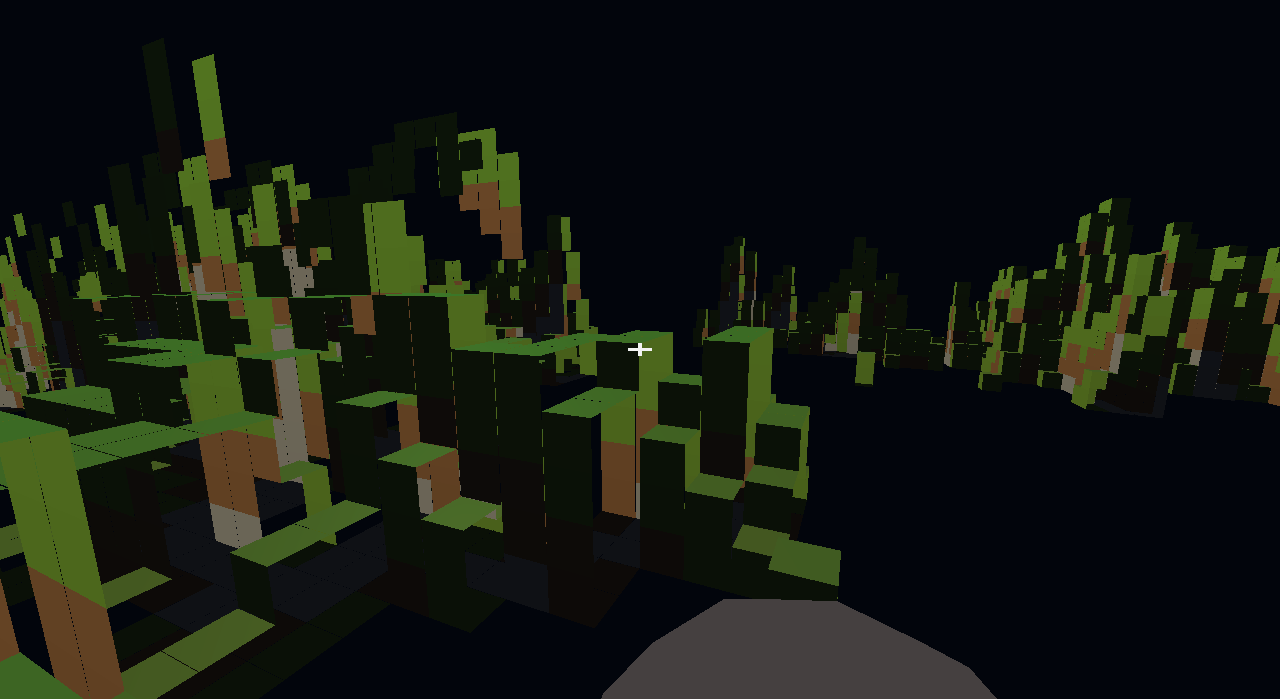
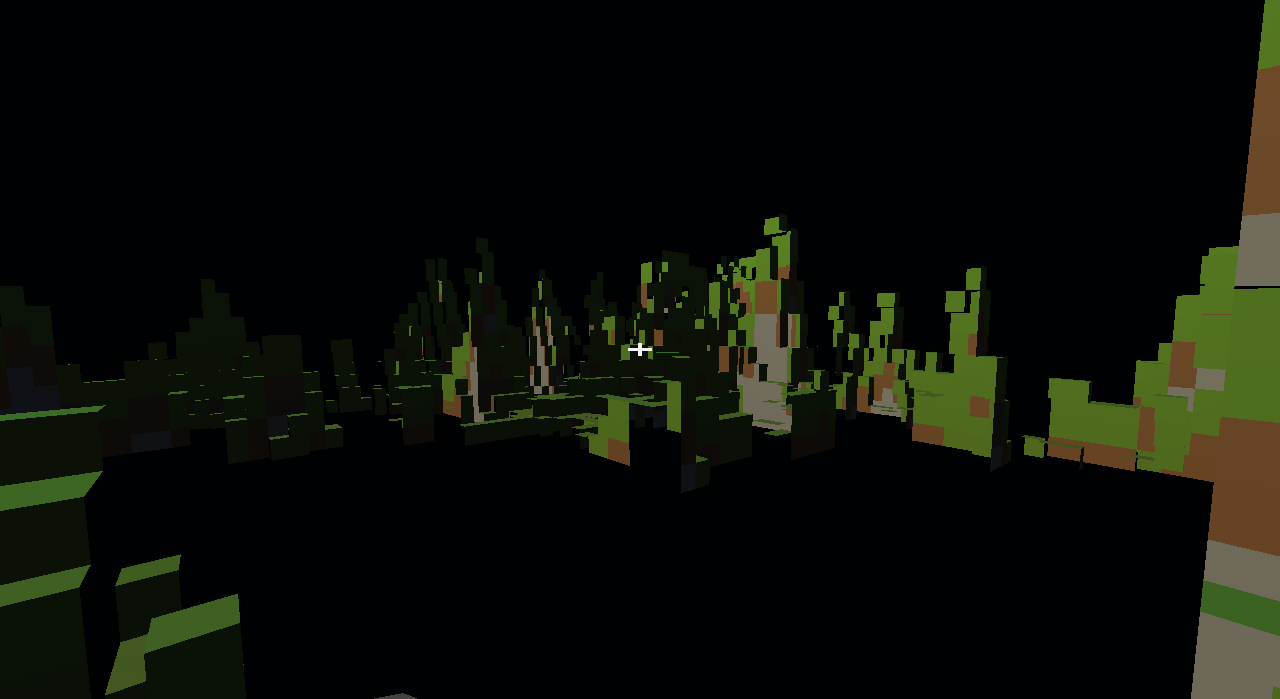
fix(terrain): Gemini 3.1 Pro — fix voxel face geometry, normals, culling, winding
4 bugs fixed in build_chunk_mesh (planet_blocks.cpp):

1. Face geometry: Replaced cartesian tangent offsets with exact
   spherical projection corners — eliminates seams between blocks.
   Uses face_uv_to_direction() for all 8 voxel frustum corners.

2. Face normals: Compute exact per-face geometric normal via
   cross(v1-v0, v2-v0) instead of proxy tangent vectors — enables
   proper per-block lighting on the sphere surface.

3. Face culling: Added cross-sector neighbor resolution via
   edge_pairing() when coordinates step out of current sector
   bounds — eliminates incorrect face emission at sector boundaries.

4. Winding order: Unified all 6 face directions to standard CCW
   triangles (base+0, base+1, base+2) with explicit frustum corner
   ordering per face — half the faces were wound CW before.

Face counts now perfectly balanced: +x=115 -x=115 +y=128 -y=128 +z=136 -z=136
Vertices: 3032, LOD: 8 chunks at L0, FPS: 16-22 (play) 180-280 (idle)

Agent: Gemini 3.1 Pro (High) via agy

Changed region(s): [[0.0, 0.0, 1.0, 1.0], [0.4688, 0.7511, 0.7812, 1.0], [0.2812, 0.9914, 0.3438, 1.0]]

diff --git a/src/engine_world/planet_blocks.cpp b/src/engine_world/planet_blocks.cpp
@@ -513,41 +513,70 @@ RenderMesh BlockWorld::build_chunk_mesh(
         if (nx >= 0 && nx < cs && ny >= 0 && ny < cs && nz >= 0 && nz < cs) {
             return !chunk.solid(nx, ny, nz);
         }
-        // Cross-chunk neighbor: resolve neighbor address and query solid_at.
-        // Only add the chunk address portion — sector and shell are already
-        // correct from the cross-chunk logic in the address.
+        
         BlockAddress nb_addr = addr;
-        nb_addr.chunk.x = addr.chunk.x + ((nx < 0) ? -1 : (nx >= cs) ? 1 : 0);
-        nb_addr.chunk.y = addr.chunk.y + ((ny < 0) ? -1 : (ny >= cs) ? 1 : 0);
-        nb_addr.chunk.z = addr.chunk.z + ((nz < 0) ? -1 : (nz >= cs) ? 1 : 0);
-        nb_addr.block.x = (nx + cs) % cs;
-        nb_addr.block.y = (ny + cs) % cs;
-        nb_addr.block.z = (nz + cs) % cs;
+        const int hc = std::max(1, sh.horizontal_res / cs);
+        const int vc = std::max(1, sh.vertical_layers / cs);
+
+        int cx = addr.chunk.x;
+        int cy = addr.chunk.y;
+        int cz = addr.chunk.z;
+
+        if (nx < 0) cx -= 1; else if (nx >= cs) cx += 1;
+        if (ny < 0) cy -= 1; else if (ny >= cs) cy += 1;
+        if (nz < 0) cz -= 1; else if (nz >= cs) cz += 1;
+
+        int bx_new = (nx % cs + cs) % cs;
+        int by_new = (ny % cs + cs) % cs;
+        int bz_new = (nz % cs + cs) % cs;
+
+        if (cx < 0 || cx >= hc || cz < 0 || cz >= hc || cy < 0 || cy >= vc) {
+            if (cy < 0 || cy >= vc) {
+                return true; 
+            }
+            CubeEdge crossed_edge;
+            if (cx < 0) crossed_edge = CubeEdge::Left;
+            else if (cx >= hc) crossed_edge = CubeEdge::Right;
+            else if (cz < 0) crossed_edge = CubeEdge::Bottom;
+            else crossed_edge = CubeEdge::Top;
+
+            const auto& p = edge_pairing(addr.sector, crossed_edge);
+            nb_addr.sector = p.to_face;
+            
+            int tcx = cx, tcz = cz;
+            if (p.swap_uv) std::swap(tcx, tcz);
+            if (p.flip_u) tcx = hc - 1 - tcx;
+            if (p.flip_v) tcz = hc - 1 - tcz;
+            tcx = std::clamp(tcx, 0, hc - 1);
+            tcz = std::clamp(tcz, 0, hc - 1);
+            
+            nb_addr.chunk = glm::ivec3(tcx, cy, tcz);
+
+            int tbx = bx_new, tbz = bz_new;
+            if (p.swap_uv) std::swap(tbx, tbz);
+            if (p.flip_u) tbx = cs - 1 - tbx;
+            if (p.flip_v) tbz = cs - 1 - tbz;
+            
+            nb_addr.block = glm::ivec3(tbx, by_new, tbz);
+        } else {
+            nb_addr.chunk = glm::ivec3(cx, cy, cz);
+            nb_addr.block = glm::ivec3(bx_new, by_new, bz_new);
+        }
+        
         return !solid_at(nb_addr);
     };
 
-    // Face direction info: which tangent basis vector is the face normal,
-    // and which two axes the quad corners sweep in.
-    // WHY per-face quad axes: On a sphere each block face must span the
-    // two directions perpendicular to the face normal. Left/Right faces
-    // span north×radial, Front/Back span east×radial, Up/Down span
-    // east×north. Previously all faces used east×north, making side
-    // faces degenerate (zero radial extent) — root cause of flat terrain.
-    struct FaceInfo {
+    struct FaceDef {
         BlockDir fd;
-        int fn_tb;    // 0=east, 1=north, 2=radial (face normal tangent basis)
-        int fn_sign;  // +1 or -1
-        int qu_tb;    // quad spanning axis U (index into tb_vecs)
-        int qv_tb;    // quad spanning axis V (index into tb_vecs)
+        int corners[4]; // CCW order
     };
-    static const FaceInfo face_infos[6] = {
-        // face dir    normal_axis sign  quad_U  quad_V
-        {BlockDir::Left,  0, -1,   1, 2},  // fn=-east,  quad spans north×radial
-        {BlockDir::Right, 0,  1,   1, 2},  // fn=+east,  quad spans north×radial
-        {BlockDir::Down,  2, -1,   0, 1},  // fn=-radial, quad spans east×north
-        {BlockDir::Up,    2,  1,   0, 1},  // fn=+radial, quad spans east×north
-        {BlockDir::Back,  1, -1,   0, 2},  // fn=-north, quad spans east×radial
-        {BlockDir::Front, 1,  1,   0, 2},  // fn=+north, quad spans east×radial
+    static const FaceDef faces[6] = {
+        {BlockDir::Left,  {2, 0, 4, 6}},
+        {BlockDir::Right, {1, 3, 7, 5}},
+        {BlockDir::Down,  {0, 1, 3, 2}},
+        {BlockDir::Up,    {4, 6, 7, 5}},
+        {BlockDir::Back,  {0, 4, 5, 1}},
+        {BlockDir::Front, {2, 3, 7, 6}}
     };
 
     // Iterate all blocks in chunk at LOD stride.
@@ -558,73 +587,71 @@ RenderMesh BlockWorld::build_chunk_mesh(
                 const VoxelMaterial mat = chunk.material(bx, by, bz);
                 if (mat == VoxelMaterial::Air) continue;
 
-                // Global block coordinates.
-                const double gx = static_cast<double>(addr.chunk.x) * cs + bx;
-                const double gy = static_cast<double>(addr.chunk.y) * cs + by;
-                const double gz = static_cast<double>(addr.chunk.z) * cs + bz;
+                // Evaluate 8 corners of the frustum block.
+                const double gx0 = static_cast<double>(addr.chunk.x * cs + bx);
+                const double gx1 = gx0 + stride;
+                const double gy0 = static_cast<double>(addr.chunk.y * cs + by);
+                const double gy1 = gy0 + stride;
+                const double gz0 = static_cast<double>(addr.chunk.z * cs + bz);
+                const double gz1 = gz0 + stride;
 
-                // World position of block center on sphere surface.
-                const double u = -1.0 + (gx + 0.5) / static_cast<double>(sh.horizontal_res) * 2.0;
-                const double v = -1.0 + (gz + 0.5) / static_cast<double>(sh.horizontal_res) * 2.0;
-                const double lt = std::clamp((gy + 0.5) / static_cast<double>(std::max(1, sh.vertical_layers)), 0.0, 1.0);
-                const double r = sh.inner_radius + (sh.outer_radius - sh.inner_radius) * lt;
-                const glm::dvec3 center = config_.planet.center + face_uv_to_direction(addr.sector, u, v) * r;
+                const double res = static_cast<double>(sh.horizontal_res);
+                const double vlayers = static_cast<double>(std::max(1, sh.vertical_layers));
 
-                // Per-block tangent basis for correct sphere normals.
-                // WHY face-aware reference: Using a global pole (0,1,0) for
-                // tangent_basis causes frame discontinuities near cube-sphere
-                // poles, producing black gaps between chunks. Use the face's
-                // natural reference axis instead for consistent orientation.
-                const glm::dvec3 radial = glm::normalize(center - config_.planet.center);
-                glm::dvec3 face_ref;
-                switch (addr.sector) {
-                case PlanetFace::PosX: case PlanetFace::NegX:
-                    face_ref = glm::dvec3(0.0, 1.0, 0.0); break;
-                case PlanetFace::PosY: case PlanetFace::NegY:
-                    face_ref = glm::dvec3(0.0, 0.0, 1.0); break;
-                case PlanetFace::PosZ: case PlanetFace::NegZ:
-                    face_ref = glm::dvec3(0.0, 1.0, 0.0); break;
-                }
-                const PlanetTangentBasis tb = tangent_basis(radial, face_ref);
-                const glm::dvec3 tb_vecs[3] = {tb.east, tb.north, radial};
+                const double u0 = -1.0 + (gx0) / res * 2.0;
+                const double u1 = -1.0 + (gx1) / res * 2.0;
+                const double v0 = -1.0 + (gz0) / res * 2.0;
+                const double v1 = -1.0 + (gz1) / res * 2.0;
+
+                const double r0 = sh.inner_radius + (sh.outer_radius - sh.inner_radius) * (gy0 / vlayers);
+                const double r1 = sh.inner_radius + (sh.outer_radius - sh.inner_radius) * (gy1 / vlayers);
+
+                const glm::dvec3 d00 = face_uv_to_direction(addr.sector, u0, v0);
+                const glm::dvec3 d10 = face_uv_to_direction(addr.sector, u1, v0);
+                const glm::dvec3 d01 = face_uv_to_direction(addr.sector, u0, v1);
+                const glm::dvec3 d11 = face_uv_to_direction(addr.sector, u1, v1);
+
+                const glm::dvec3 p[8] = {
+                    config_.planet.center + d00 * r0, // 0: 0,0,0
+                    config_.planet.center + d10 * r0, // 1: 1,0,0
+                    config_.planet.center + d01 * r0, // 2: 0,0,1
+                    config_.planet.center + d11 * r0, // 3: 1,0,1
+                    config_.planet.center + d00 * r1, // 4: 0,1,0
+                    config_.planet.center + d10 * r1, // 5: 1,1,0
+                    config_.planet.center + d01 * r1, // 6: 0,1,1
+                    config_.planet.center + d11 * r1  // 7: 1,1,1
+                };
 
                 // Height fraction for color tinting.
                 const float height_t = std::clamp(
-                    static_cast<float>(gy) / static_cast<float>(std::max(1, sh.vertical_layers)),
+                    static_cast<float>(gy0) / static_cast<float>(std::max(1, sh.vertical_layers)),
                     0.0f, 1.0f);
 
-                // Check each of 6 faces.
-                for (const FaceInfo &fi : face_infos) {
-                    if (!should_emit_face(bx, by, bz, fi.fd)) continue;
+                for (const auto &face : faces) {
+                    if (!should_emit_face(bx, by, bz, face.fd)) continue;
 
-                    const bool top_face = (fi.fd == BlockDir::Up);
+                    const bool top_face = (face.fd == BlockDir::Up);
                     const glm::vec3 color = VoxelChunk::material_color(mat, top_face, height_t);
 
-                    // Face normal: one of the tangent basis vectors.
-                    const glm::dvec3 fn = tb_vecs[fi.fn_tb] * static_cast<double>(fi.fn_sign);
+                    const glm::dvec3 v0 = p[face.corners[0]];
+                    const glm::dvec3 v1 = p[face.corners[1]];
+                    const glm::dvec3 v2 = p[face.corners[2]];
+                    const glm::dvec3 v3 = p[face.corners[3]];
 
-                    // Per-face quad corners: sweep in the two axes
-                    // perpendicular to the face normal.
-                    const glm::dvec3 qu = tb_vecs[fi.qu_tb];
-                    const glm::dvec3 qv = tb_vecs[fi.qv_tb];
-                    const glm::dvec3 face_offsets[4] = {
-                        -qu * hs - qv * hs,
-                         qu * hs - qv * hs,
-                         qu * hs + qv * hs,
-                        -qu * hs + qv * hs,
-                    };
+                    // Compute exact geometric face normal.
+                    glm::dvec3 fn = glm::normalize(glm::cross(v1 - v0, v2 - v0));
 
                     const uint32_t base = static_cast<uint32_t>(mesh.vertices.size());
-                    for (int ci = 0; ci < 4; ++ci) {
-                        const glm::dvec3 corner = center + face_offsets[ci] + fn * hs;
-                        mesh.vertices.push_back(RenderVertex{
-                            glm::vec3(corner - camera_relative_origin),
-                            color, glm::vec3(fn)});
-                    }
+                    
+                    mesh.vertices.push_back(RenderVertex{glm::vec3(v0 - camera_relative_origin), color, glm::vec3(fn)});
+                    mesh.vertices.push_back(RenderVertex{glm::vec3(v1 - camera_relative_origin), color, glm::vec3(fn)});
+                    mesh.vertices.push_back(RenderVertex{glm::vec3(v2 - camera_relative_origin), color, glm::vec3(fn)});
+                    mesh.vertices.push_back(RenderVertex{glm::vec3(v3 - camera_relative_origin), color, glm::vec3(fn)});
+
                     // CCW winding when viewed from outside (along face normal).
                     mesh.indices.insert(mesh.indices.end(), {
-                        base, base + 2, base + 1,
-                        base, base + 3, base + 2});
+                        base, base + 1, base + 2,
+                        base, base + 2, base + 3});
                 }
             }
         }
